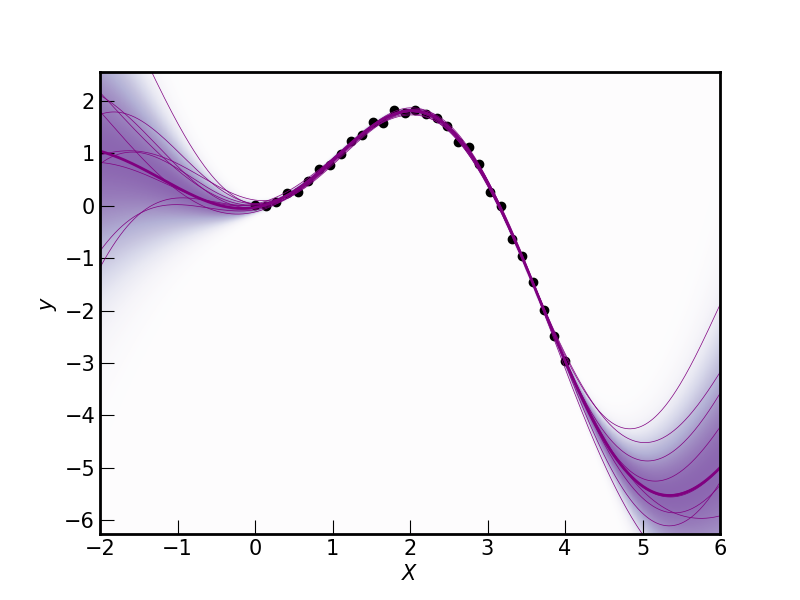
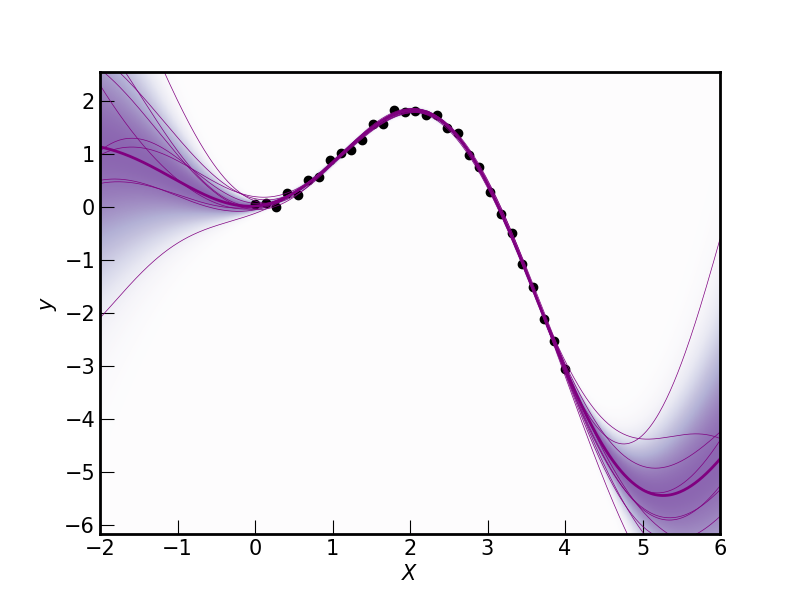
changed the folder structure, and modified the solver classes

diff --git a/src/solver/solver.py b/src/solver/solver.py
@@ -1,19 +1,18 @@
 import numpy as np
-from abc import abstractmethod
-from src.utils_gpr.utils import timing
+from src.utils.utils import timing
 
 
 class Solver:
 
     def __init__(self):
-        self.A = None
-        self.b = None
-        self.x = None
-        self.N = None
+        self._A = None
+        self._b = None
+        self._x = None
+        self._N = None
 
     @timing
     def solve(self):
-        self.x = np.linalg.solve(self.A, self.b)
+        self._x = np.linalg.solve(self._A, self._b)
 
     @property
     def x(self):
@@ -46,6 +45,11 @@ class Solver:
     @A.setter
     def A(self, value):
         self._A = value
+
+    def set_lse(self, A, b):
+        self.A = A
+        self.b = b
+        self.N = len(b)
 
     @property
     def condA(self):

diff --git a/src/gpr/gaussian_process.py b/src/gpr/gaussian_process.py
@@ -3,9 +3,9 @@ import scipy.optimize
 from numpy.random import randn
 import matplotlib.pyplot as plt
 from operator import itemgetter
-from src.utils_gpr.utils import save_fig
+from src.utils.utils import save_fig
 from matplotlib.ticker import MaxNLocator
-from scipy.linalg import cho_solve, cholesky, solve_triangular
+from scipy.linalg import cholesky, solve_triangular
 
 
 class GP:
@@ -55,12 +55,9 @@ class GP:
         K_[np.diag_indices_from(K_)] += self.alpha_
 
         # NEW
-        self.solver.N = self.n
-        self.solver.b = self.y_train
-        self.solver.A = K_
+        self.solver.set_lse(A=K_, b=self.y_train)
         self.solver.solve()
         self.alpha = self.solver.x
-
 
         # OLD (CHOLESKY)
         # K_ = L*L^T --> L

diff --git a/src/solver/quantum/vqls/vqls_fast_and_slow.py b/src/solver/quantum/vqls/vqls_fast_and_slow.py
@@ -1,12 +1,12 @@
-import src.utils_gpr.utils as utils
+import src.utils.utils as utils
 from skopt import gp_minimize
 import matplotlib.pyplot as plt
 from matplotlib.ticker import MaxNLocator
-from src.qutils.ansatz import *
-from src.qutils.embedding import *
+from src.utils.ansatz import *
+from src.utils.embedding import *
 from src.optimizers.optim_qml import *
-from src.qutils.backend import DefaultQubit, LightningQubit
-from src.qutils.qutils import get_paulis, plot_costs, get_random_ls
+from src.utils.backend import DefaultQubit, LightningQubit
+from src.utils.qutils import get_paulis, plot_costs, get_random_ls
 
 
 class FastSlowVQLS:

diff --git a/examples/example_gpr.py b/examples/example_gpr.py
@@ -1,11 +1,10 @@
 import numpy as np
 from src.kernels.rbf import RBFKernel
 from src.gpr.gaussian_process import GP
-from src.utils_gpr.utils import data_from_func
+from src.utils.utils import data_from_func
+from src.solver.solver import Solver
 from input.testfuncs_1d import oscillatory_increasing_amplitude
-from src.solver.classic.solver import Solver
 from src.solver.classic.cg import CG
-from src.solver.classic.pcg import PCG
 
 # choose function
 func = oscillatory_increasing_amplitude
@@ -19,6 +18,7 @@ eps = 0.1
 
 # choose solver
 solver = Solver()
+# solver = CG()
 
 # create GP model
 model = GP(kernel=kernel,

diff --git a/examples/example_vqls.py b/examples/example_vqls.py
@@ -1,10 +1,10 @@
-from src.qutils.ansatz import *
-from src.qutils.embedding import *
+from src.utils.ansatz import *
+from src.utils.embedding import *
 from src.optimizers.optim_qml import *
-from src.qutils.backend import DefaultQubit, LightningQubit
-from src.qutils.qutils import get_random_ls
+from src.utils.backend import DefaultQubit, LightningQubit
+from src.utils.qutils import get_random_ls
 from src.solver.quantum.vqls.vqls_fast_and_slow import FastSlowVQLS
-from src.qutils.qutils import plot_costs
+from src.utils.qutils import plot_costs
 
 # reproducibility
 # np.random.seed(42)

diff --git a/src/solver/classic/cg.py b/src/solver/classic/cg.py
@@ -1,12 +1,12 @@
 import numpy as np
-from src.solver.classic.solver import Solver
-from src.utils_gpr.utils import timing
+from src.solver.solver import Solver
+from src.utils.utils import timing
 
 
 class CG(Solver):
 
-    def __init__(self, A, b, maxiter=20, tol=1e-8):
-        super().__init__(A, b)
+    def __init__(self, maxiter=20, tol=1e-8):
+        super().__init__()
         self.iters: int = 0
         self.maxiter: int = maxiter
         self.tol: float = tol

diff --git a/tests/test_pcg.py b/tests/test_pcg.py
@@ -1,8 +1,5 @@
 import numpy as np
-from src.solver.classic.cg import CG
-from src.solver.classic.pcg import PCG
-from src.solver.classic.solver import Solver
-from scipy.sparse import csc_matrix
+from src.solver.solver import Solver
 
 # Example usage
 np.random.seed(42)

diff --git a/src/solver/classic/pcg.py b/src/solver/classic/pcg.py
@@ -1,6 +1,6 @@
 import numpy as np
-from src.solver.classic.solver import Solver
-from src.utils_gpr.utils import timing
+from src.solver.solver import Solver
+from src.utils.utils import timing
 
 
 class PCG(Solver):
